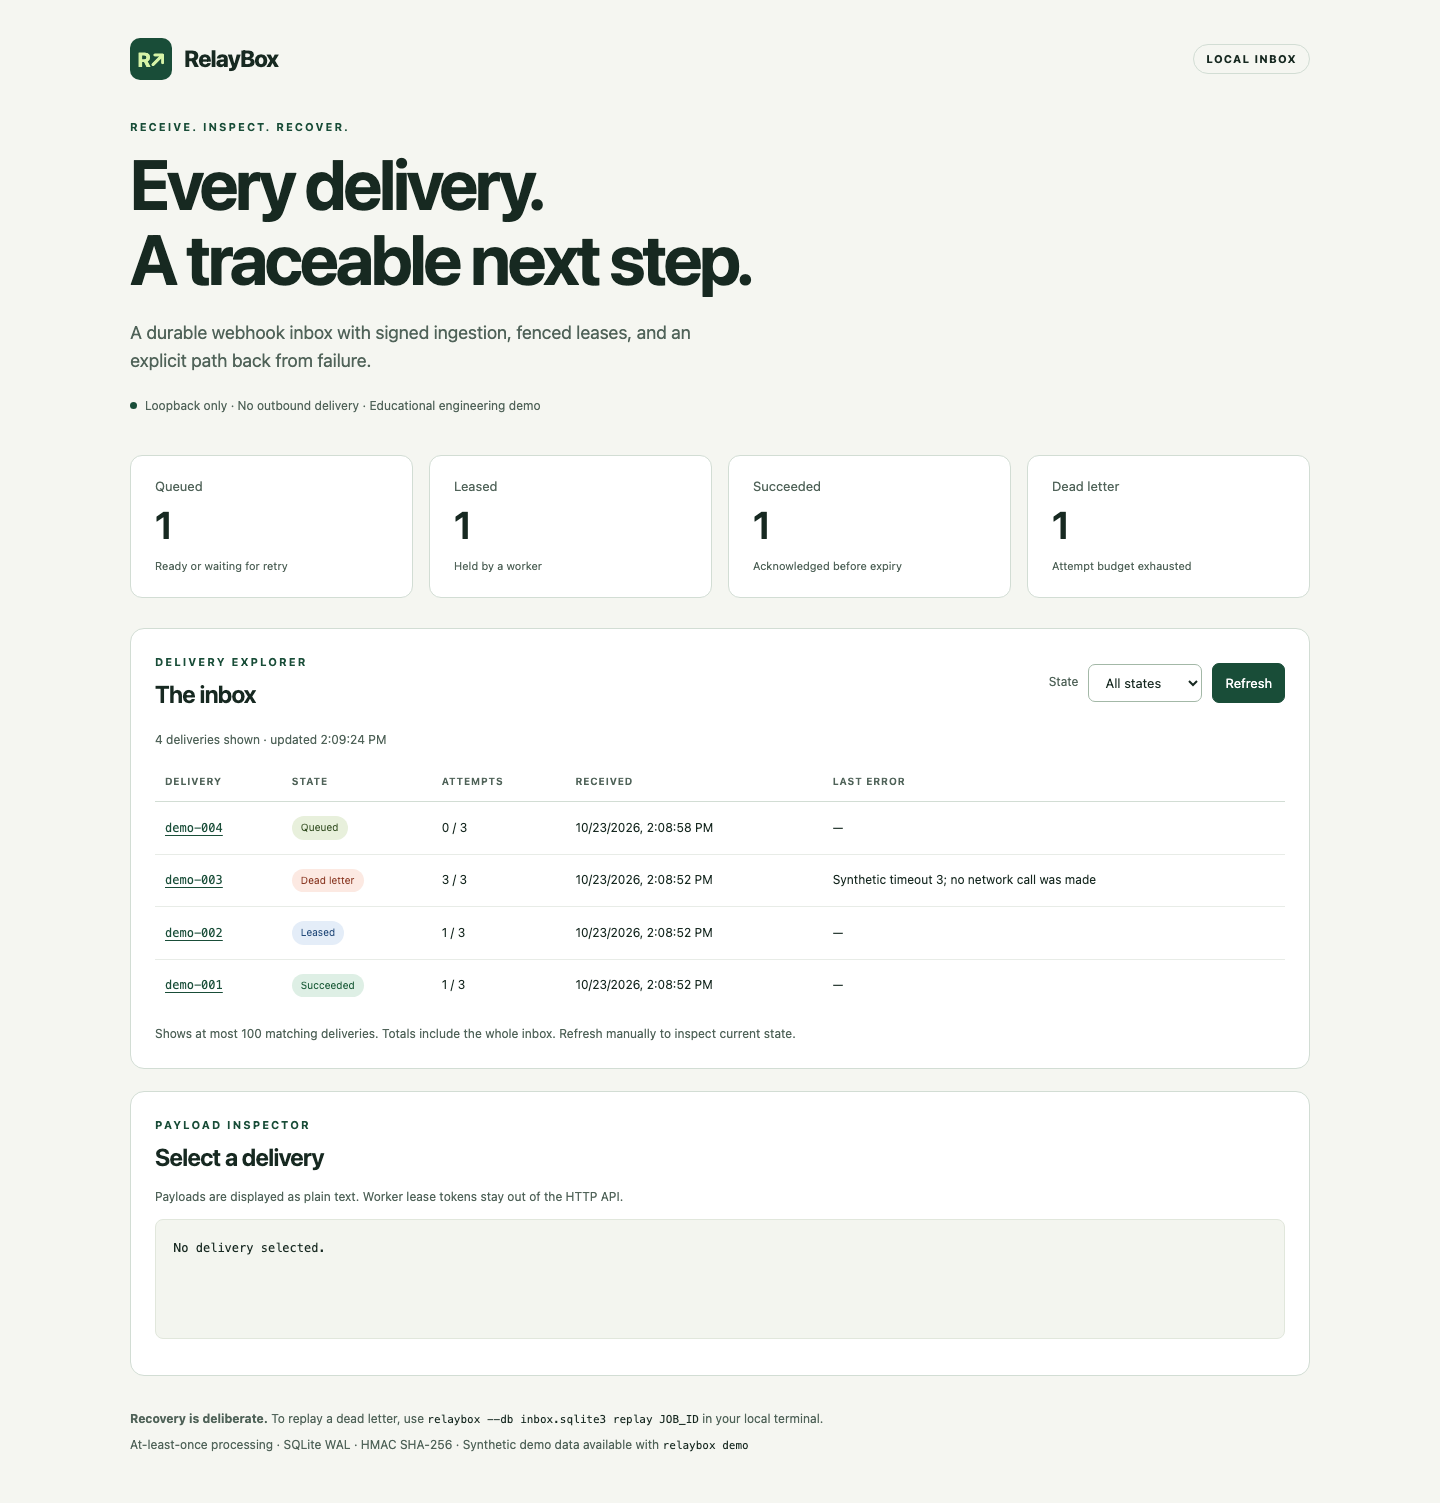
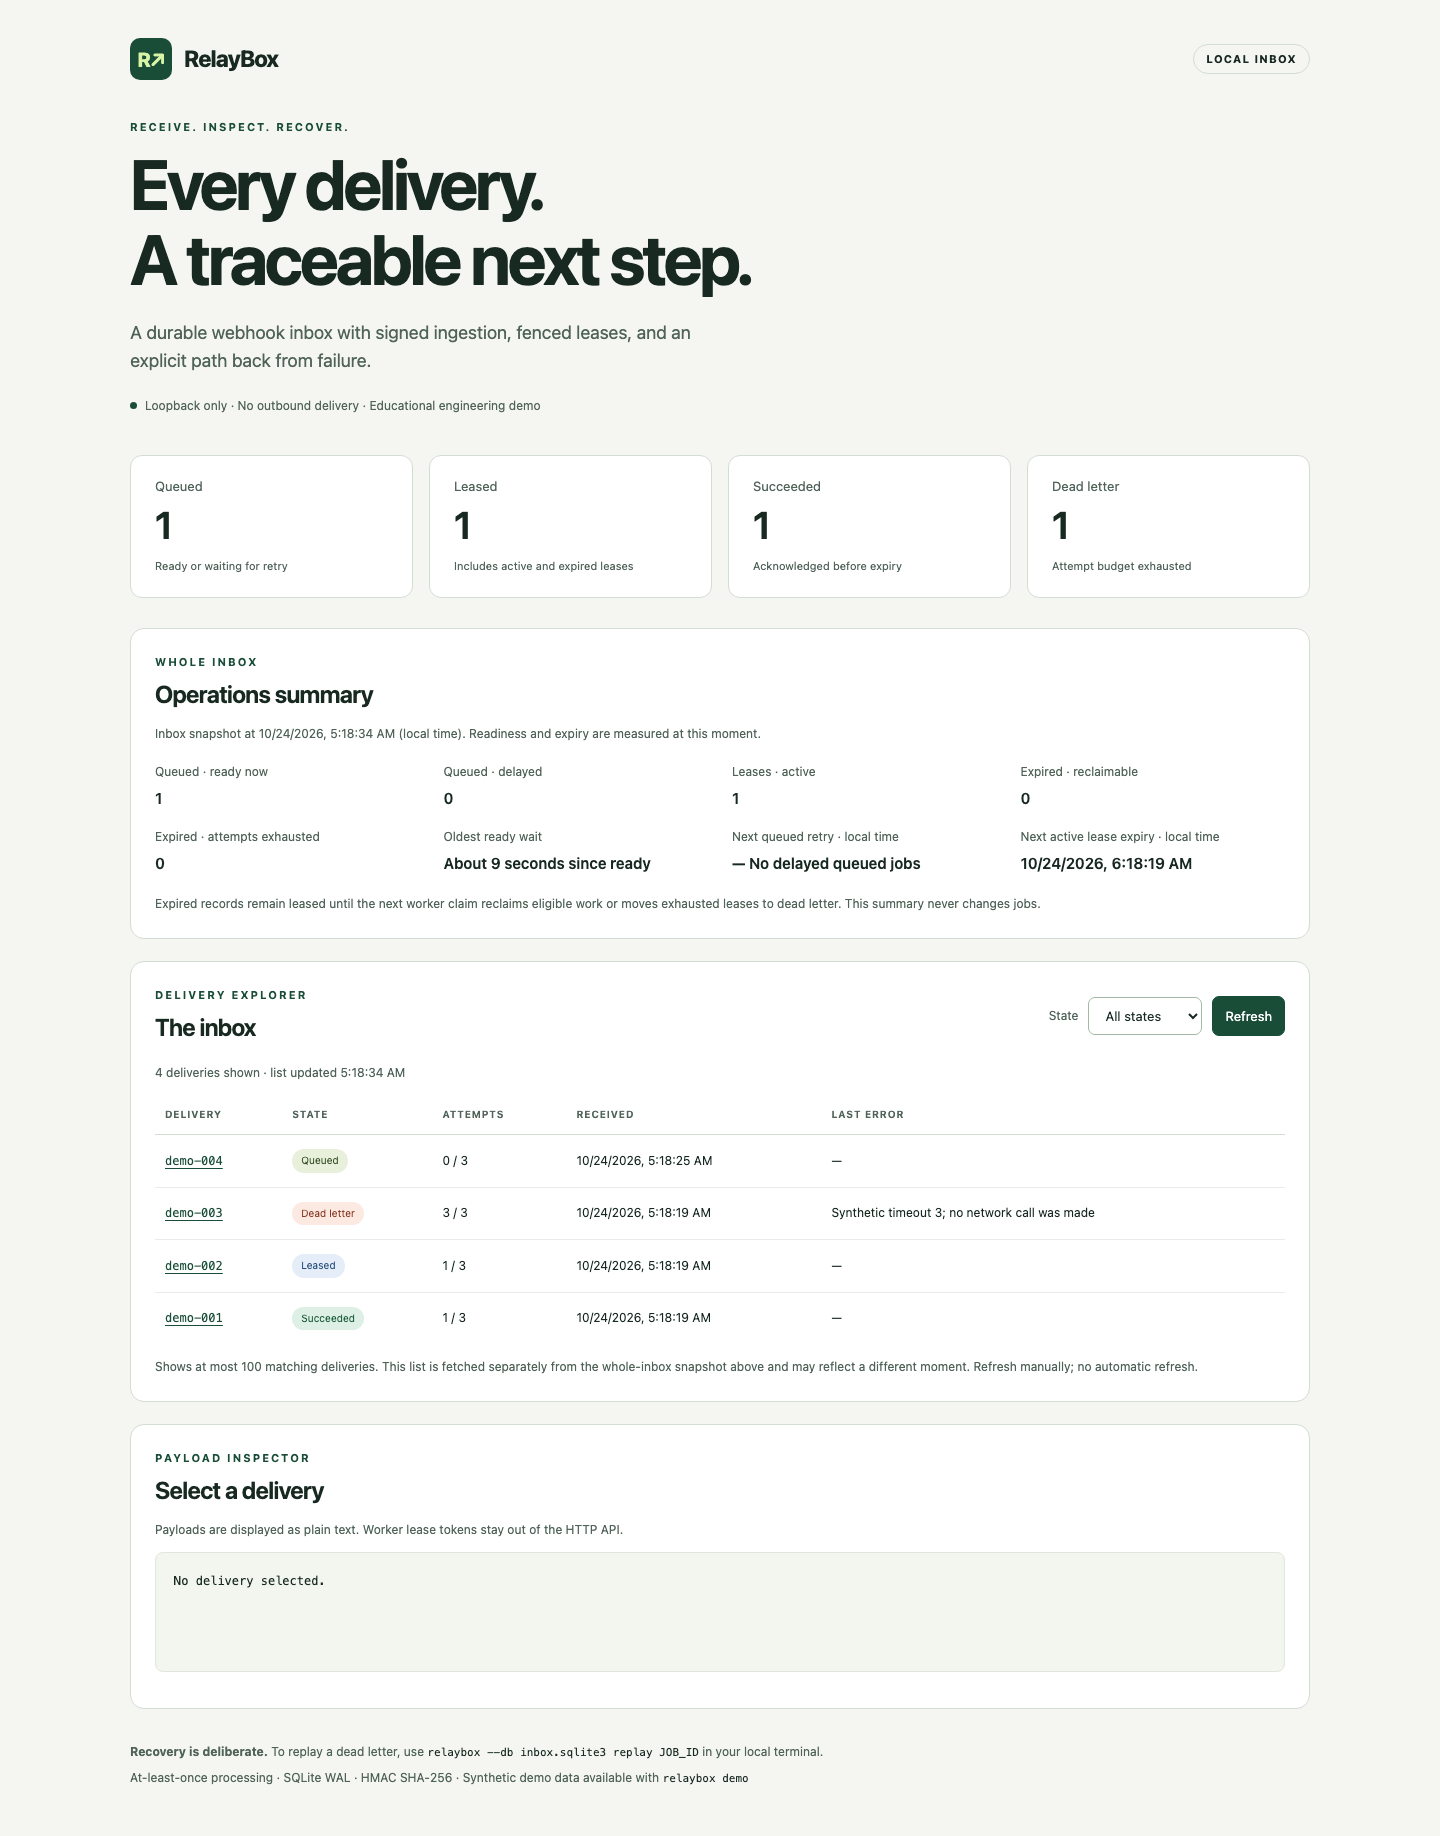
Refresh the README dashboard screenshot for 0.4.1
The tracked screenshot predated the 0.4.0 operations summary. Capture
the installed 0.4.1 dashboard over real loopback HTTP with the
built-in synthetic demo data (`relaybox demo`, `serve --demo-secret`)
at the same 1440 px width, showing the operations summary and the
readable oldest-ready wait, and describe it in the alt text.

diff --git a/README.md b/README.md
@@ -8,7 +8,7 @@ RelayBox is a Python 3.11+ engineering demo built with the standard library and 
 
 No runtime dependencies, external services, or outbound webhook delivery. This is an educational portfolio project, not a production service. Implementation and tests were developed with AI assistance; review scope and limitations are explicit below.
 
-![RelayBox local dashboard with synthetic deliveries](docs/dashboard.png)
+![RelayBox 0.4.1 local dashboard with four synthetic deliveries, the whole-inbox operations summary and the oldest ready wait shown as "About 9 seconds since ready"](docs/dashboard.png)
 
 ## Run in a minute
 
